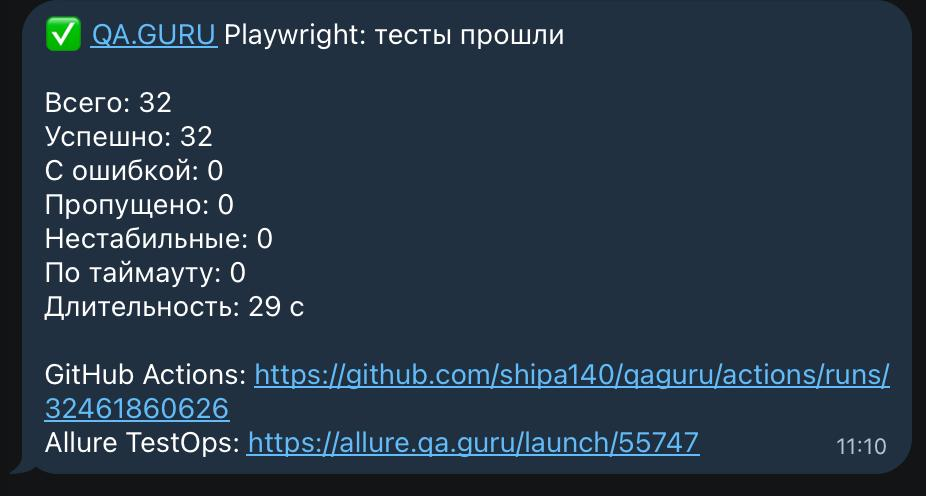
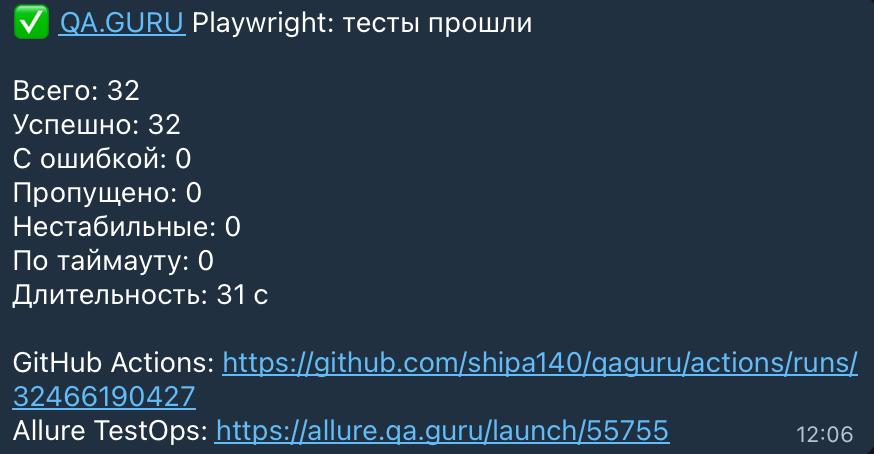
Обновить результаты запуска в README

Changed region(s): [[0.0, 0.0, 1.0, 1.0]]

diff --git a/README.md b/README.md
@@ -2,7 +2,7 @@
 
 [![Playwright tests](https://github.com/shipa140/qaguru/actions/workflows/tests.yml/badge.svg)](https://github.com/shipa140/qaguru/actions/workflows/tests.yml)
 [![Playwright](https://img.shields.io/badge/Playwright-1.62-2EAD33?logo=playwright&logoColor=white)](https://playwright.dev/)
-[![Allure TestOps](https://img.shields.io/badge/Allure-TestOps-FC6A31)](https://allure.qa.guru/launch/55747)
+[![Allure TestOps](https://img.shields.io/badge/Allure-TestOps-FC6A31)](https://allure.qa.guru/launch/55755)
 
 Масштабируемый Playwright-фреймворк: **15 UI-тестов**
 [RealWorld](https://realworld.qa.guru/) и **17 API-тестов**
@@ -73,8 +73,8 @@ npm run format:check
 
 ## Результаты
 
-- [GitHub Actions: успешный запуск 32/32](https://github.com/shipa140/qaguru/actions/runs/32465229177)
-- [Allure TestOps: запуск №40](https://allure.qa.guru/launch/55747)
+- [GitHub Actions: успешный запуск 32/32](https://github.com/shipa140/qaguru/actions/runs/32466190427)
+- [Allure TestOps: запуск №44](https://allure.qa.guru/launch/55755)
 
 ### GitHub Actions
 
